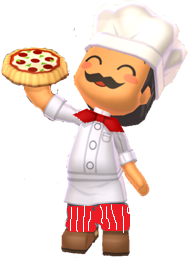
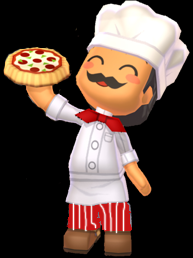
alla bilder funkar dock är de i dålig kvalitet nu för behövde göra alla till gifar...

diff --git a/prog3spel/PlayableSprite.cpp b/prog3spel/PlayableSprite.cpp
@@ -7,10 +7,9 @@ namespace gamepackage {
 	PlayableSprite::PlayableSprite(GameFrame* gf, int x, int y, int w, int h) :
 		Sprite(gf, x, y, w, h)
 	{
-		leftSprite = IMG_LoadTexture(win->getRenderer(), "images/playableLeft150x163.png");
-		rightSprite = IMG_LoadTexture(win->getRenderer(), "images/playableRight150x163.png");
-		standingSprite = IMG_LoadTexture(win->getRenderer(),"images/playableStanding.png" );
-		shownSprite = standingSprite;
+		leftSprite = IMG_LoadTexture(win->getRenderer(), "images/playableLeft.gif");
+		rightSprite = IMG_LoadTexture(win->getRenderer(), "images/playableRight.gif");
+		standingSprite = IMG_LoadTexture(win->getRenderer(),"images/playableStanding.gif" );
 		shownSprite = leftSprite;
 	}
 
@@ -54,7 +53,7 @@ namespace gamepackage {
 
 	void PlayableSprite::collision()
 	{
-		
+		shownSprite = standingSprite;
 	}
 
 

diff --git a/prog3spel/NonPlayableSprite.cpp b/prog3spel/NonPlayableSprite.cpp
@@ -14,8 +14,8 @@ namespace gamepackage {
 	NonPlayableSprite::NonPlayableSprite(GameFrame* gf, int x, int y, int w, int h) :
 		Sprite(gf, x, y, w, h)
 	{
-		spriteLeft = IMG_LoadTexture(win->getRenderer(), "images/fallingLeft.png");
-		spriteRight = IMG_LoadTexture(win->getRenderer(), "images/fallingRight.png");
+		spriteLeft = IMG_LoadTexture(win->getRenderer(), "images/fallingLeft.gif");
+		spriteRight = IMG_LoadTexture(win->getRenderer(), "images/fallingRight.gif");
 	}
 
 	void NonPlayableSprite::draw() {
@@ -37,7 +37,6 @@ namespace gamepackage {
 	}
 	
 	void NonPlayableSprite::collision() {
-		std::cout << "DED" << std::endl;
 		isDead = true;
 	}
 
